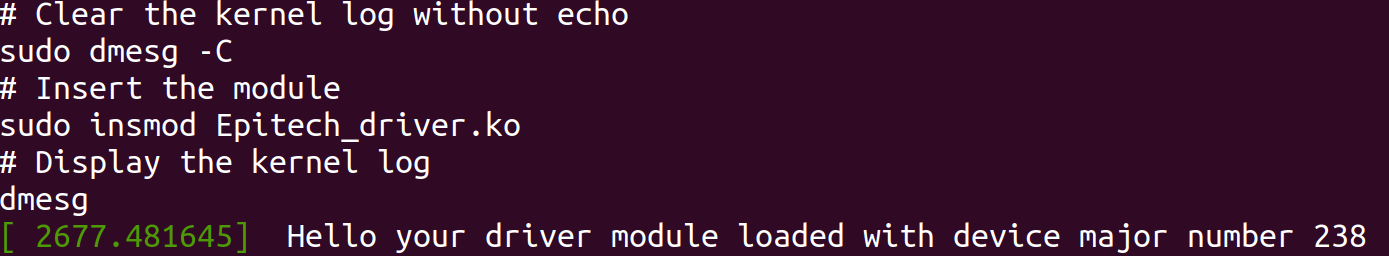
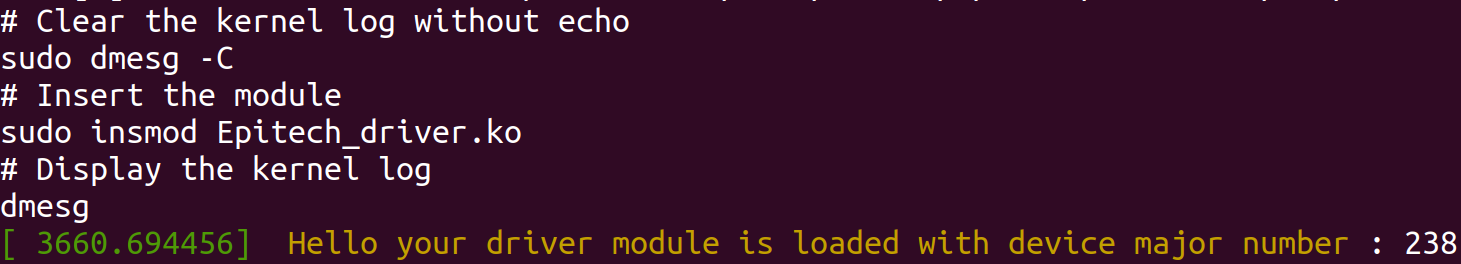
Change driver output for MAJOR number

diff --git a/src/Epitech_driver.c b/src/Epitech_driver.c
@@ -121,7 +121,7 @@ static int __init Epitech_example_init(void)
 		printk(KERN_ALERT "Could not register device: %d\n", major_num);
 		return (major_num);
 	} else {
-		printk(KERN_INFO  " Hello your driver module loaded with device major number %d\n", major_num);
+		printk(KERN_INFO  " Hello your driver module is loaded with device major number : %d\n", major_num);
 		return (0);
 	}
 }
